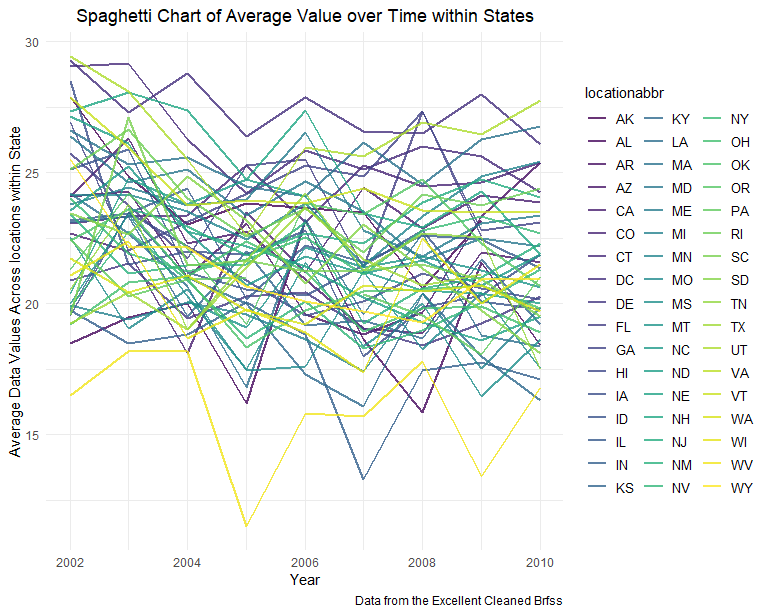
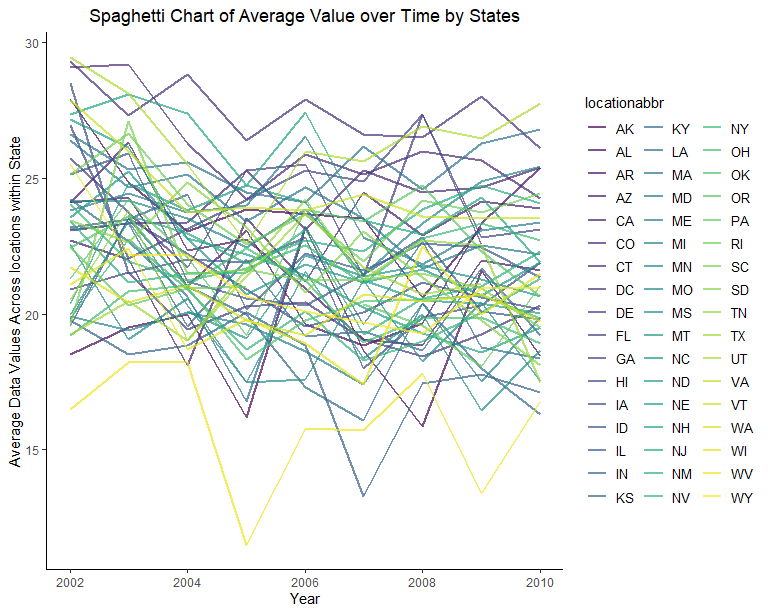
add additional boxplot to p2 two panel plot

diff --git a/p8105_hw3_yw4251.md b/p8105_hw3_yw4251.md
@@ -192,6 +192,11 @@ instacart %>%
 data("brfss_smart2010")
 ```
 
+First, data cleaning. I standardize the column names, and filters rows
+where the topic is “Overall Health”. It then reorders the responses in
+the ‘response’ column into an ascending order of health quality. The
+resulting cleaned data is stored in `cleaned_brfss`.
+
 ``` r
 cleaned_brfss=
   brfss_smart2010 %>% 
@@ -203,7 +208,11 @@ cleaned_brfss=
     ordered = TRUE))
 ```
 
-## In 2002, which states were observed at 7 or more locations? What about in 2010?
+## In 2002, which states were observed at 7 or more locations? What about in 2010? As shown:
+
+In 2002, CT, FL, MA, NC, NJ, PA were observed at 7 or more locations; In
+2010, CA, CO, FL, MA, MD, NC, NE, NJ, NY, OH, PA, SC, TX, WA were
+observed at 7 or more locations.
 
 ``` r
 cleaned_brfss %>% 
@@ -236,7 +245,14 @@ cleaned_brfss %>%
 |:-----------------------|:-------------------------------------------------------|
 | CT, FL, MA, NC, NJ, PA | CA, CO, FL, MA, MD, NC, NE, NJ, NY, OH, PA, SC, TX, WA |
 
-## Construct a dataset that is limited to Excellent responses, and contains, year, state, and a variable that averages the data_value across locations within a state. Make a “spaghetti” plot of this average value over time within a state (that is, make a plot showing a line for each state across years – the geom_line geometry and group aesthetic will help).
+## Construct a dataset that is limited to Excellent responses, and contains, year, state, and a variable that averages the data_value across locations within a state. Make a “spaghetti” plot of this average value over time within a state (that is, make a plot showing a line for each state across years – the geom_line geometry and group aesthetic will help). As shown:
+
+The Spaghetti Plot displays the average values from 2002 to 2010 for
+various U.S. states. It shows significant variability across states. A
+noticeable trend is the dip in average values for many states around
+2006, followed by a subsequent recovery. The values range between
+approximately 15 and 30. There’s no uniform trend evident for all the
+states across the shown years.
 
 ``` r
 excel_cleaned_brfss=
@@ -251,16 +267,15 @@ excel_cleaned_brfss=
 
 ``` r
 ggplot(excel_cleaned_brfss,aes(x=year,y=avg_data_val,color=locationabbr))+
-  geom_line(size = 0.8,alpha=0.8)+
-  theme_minimal()+
-  theme(legend.text = element_text(size = 10))+
+  geom_line(size = 0.8,alpha=0.7)+
+  theme_classic()+
   labs(
-    title = "Spaghetti Chart of Average Value over Time within States",
+    title = "Spaghetti Chart of Average Value over Time by States",
     x = "Year",
-    y = "Average Data Values Across locations within State",
-    caption = "Data from the Excellent Cleaned Brfss") +
+    y = "Average Data Values Across locations within State") +
   theme(
-    plot.title = element_text(hjust = 0.5)
+    plot.title = element_text(hjust = 0.5),
+    legend.text = element_text(size = 10)
   )
 ```
 
